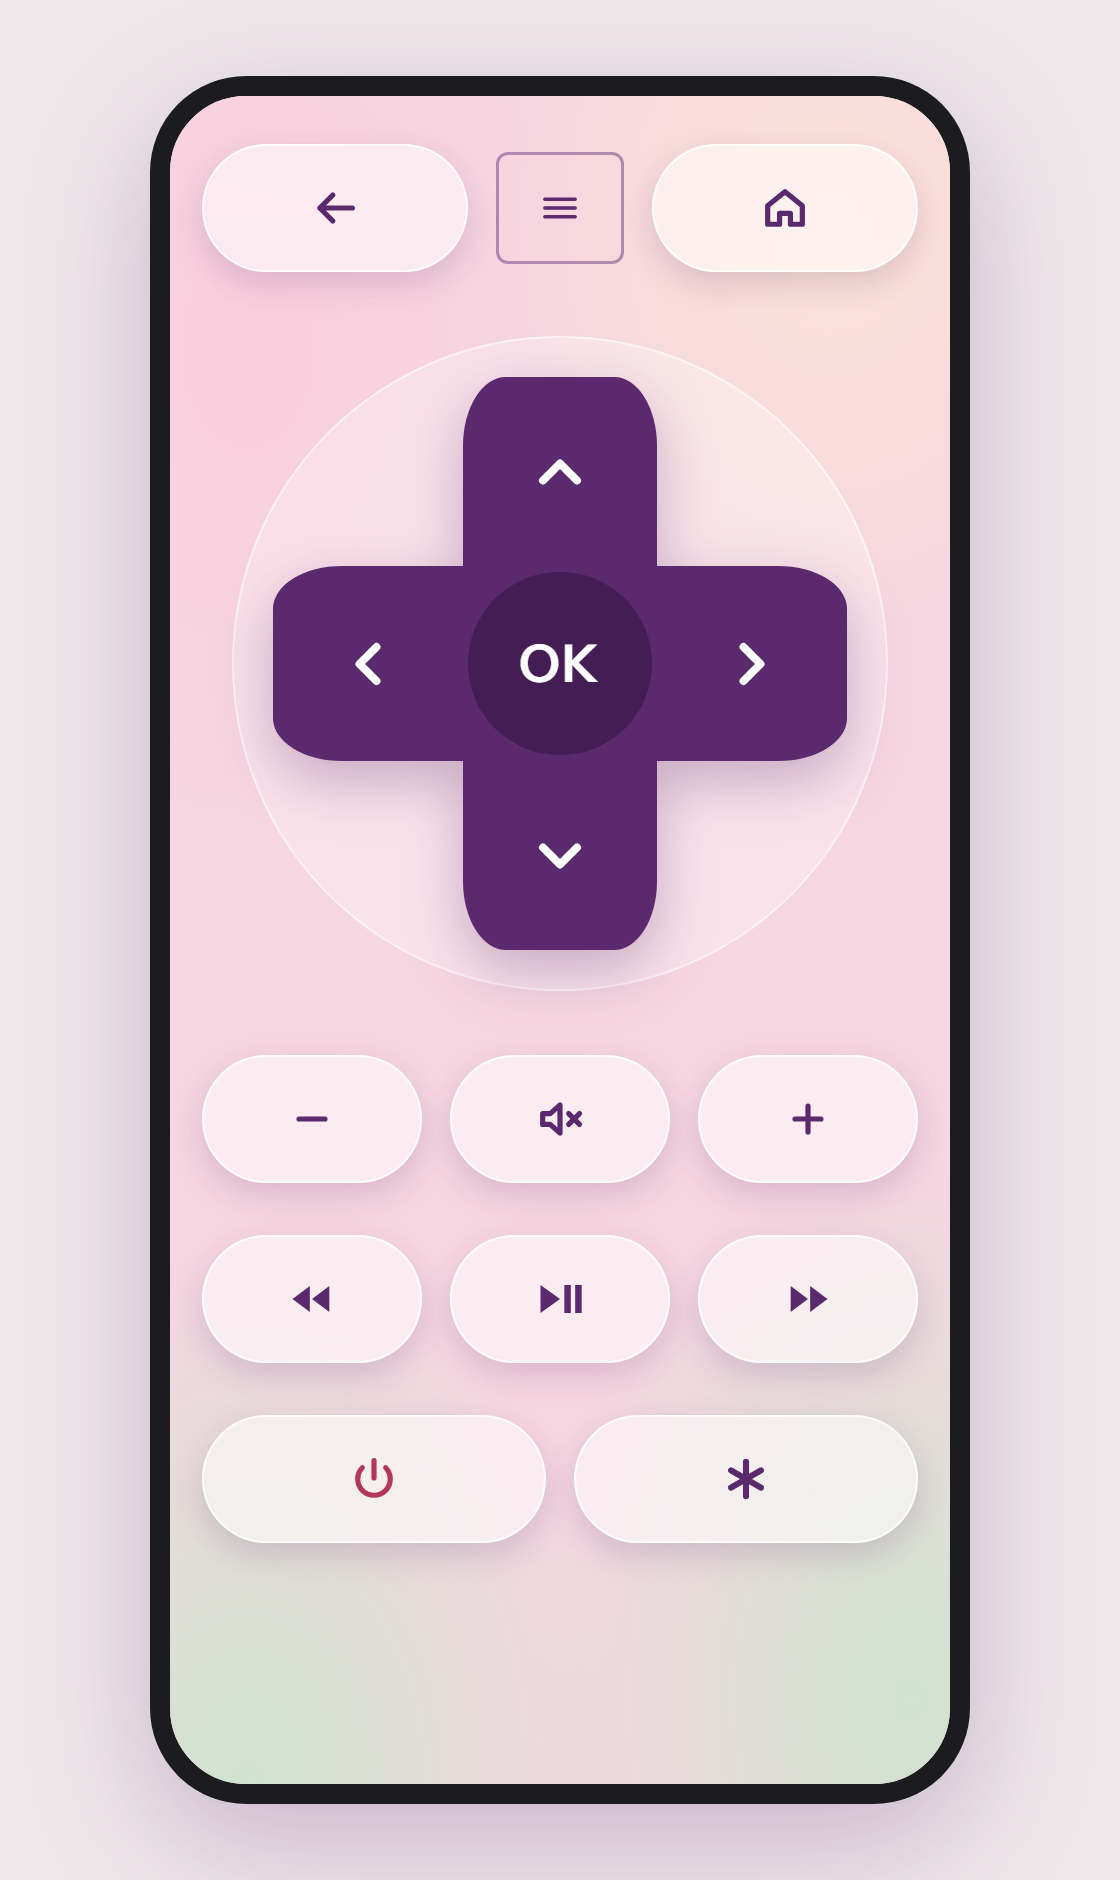
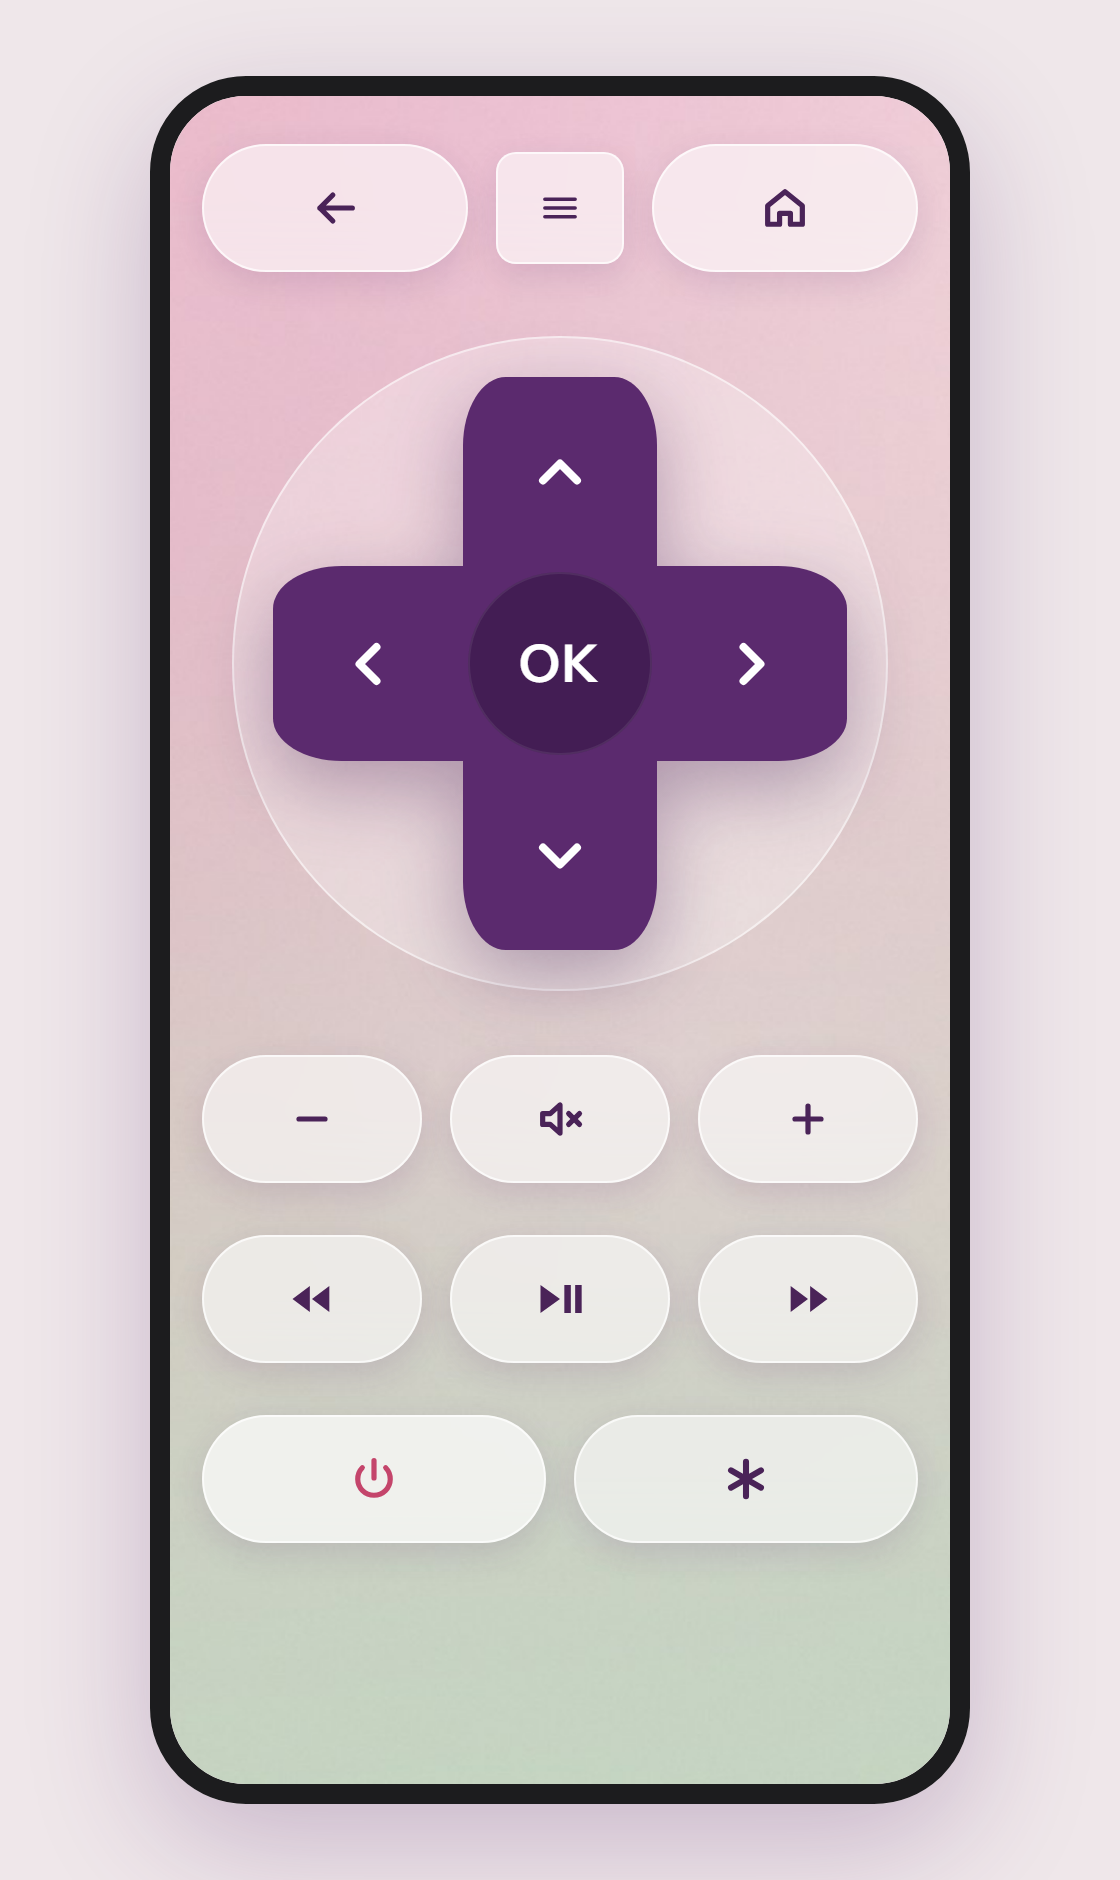
Remote: pastel wash photo, frosted pills, clearer press feedback, real play/pause toggle
- remote-bg.jpg: the same pink-to-sage wash as the TV, without the TV's plum scrims
- Frosted-white pills with plum ink icons; power is the one warm accent
- Press feedback scales to .94 (iOS has no vibration)
- PlayPause is resolved on the server: the Roku's Play key toggles; the TV alternates

diff --git a/src/tvui/static/remote.html b/src/tvui/static/remote.html
@@ -17,57 +17,55 @@
   @font-face { font-family: "Instrument Sans"; font-weight: 600; src: url(/instrument-sans-600.woff2) format("woff2"), url(/instrument-sans-600.woff) format("woff"); }
 
   /* Palette from the app icon: pastel blur wash, plum D-pad. */
-  :root { --blush: #F6D6E1; --sage: #CFE3CF; --peach: #FBE3D6; --plum: #5B2A6E; --plum-dark: #431D54;
-    --glass: rgba(255,255,255,.55); --glass-hit: rgba(255,255,255,.85); --shadow: rgba(91,42,110,.18); }
+  :root { --blush: #F6D6E1; --plum: #5B2A6E; --plum-dark: #431D54; --ink: #4A2358;
+    --glass: rgba(255,255,255,.58); --shadow: rgba(91,42,110,.14); }
   * { box-sizing: border-box; -webkit-tap-highlight-color: transparent; }
   html { min-height: 100%; background: var(--blush); }
-  body { margin: 0; min-height: 100vh; color: var(--plum);
-    background:
-      radial-gradient(ellipse 70% 45% at 10% 100%, var(--sage) 0%, transparent 70%),
-      radial-gradient(ellipse 70% 45% at 95% 95%, var(--sage) 0%, transparent 70%),
-      radial-gradient(ellipse 60% 35% at 85% 8%, var(--peach) 0%, transparent 70%),
-      radial-gradient(ellipse 60% 40% at 10% 15%, #F9CFDD 0%, transparent 70%),
-      var(--blush);
-    background-attachment: fixed;
+  body { margin: 0; min-height: 100vh; color: var(--ink);
+    background: #ecd3dc url(/remote-bg.jpg) center / cover no-repeat fixed;
     font-family: "Instrument Sans", -apple-system, "Helvetica Neue", Helvetica, Arial, sans-serif;
     -webkit-user-select: none; user-select: none; touch-action: manipulation; }
   .wrap { max-width: 420px; margin: 0 auto;
     padding: calc(env(safe-area-inset-top, 0px) + 24px) 16px calc(env(safe-area-inset-bottom, 0px) + 24px);
     display: flex; flex-direction: column; gap: 26px; }
   .row { display: flex; justify-content: space-between; align-items: center; gap: 14px; }
-  button { border: 0; padding: 0; color: var(--plum); font: inherit; cursor: pointer;
+  button { border: 0; padding: 0; color: var(--ink); font: inherit; cursor: pointer;
     display: grid; place-items: center; }
-  .pill { flex: 1; height: 64px; border-radius: 32px; background: var(--glass);
-    border: 1px solid rgba(255,255,255,.75);
-    -webkit-backdrop-filter: blur(12px); backdrop-filter: blur(12px);
-    box-shadow: 0 6px 16px var(--shadow);
-    transition: transform .08s, background .08s; }
-  .pill:active, .pill.hit { transform: scale(.96); background: var(--glass-hit); }
-  .sq { flex: 0 0 64px; height: 56px; background: transparent; border: 1.5px solid rgba(91,42,110,.45); border-radius: 6px; }
-  .sq:active, .sq.hit { background: rgba(255,255,255,.5); }
-  svg { width: 26px; height: 26px; fill: none; stroke: var(--plum); stroke-width: 2.4;
+  /* Frosted-white pills with plum icons; the D-pad is the only saturated object. */
+  .pill, .sq { background: var(--glass); border: 1px solid rgba(255,255,255,.7);
+    -webkit-backdrop-filter: blur(14px); backdrop-filter: blur(14px);
+    box-shadow: 0 5px 16px var(--shadow); transition: transform .12s, background .12s; }
+  .pill { flex: 1; height: 64px; border-radius: 32px; }
+  .sq { flex: 0 0 64px; height: 56px; border-radius: 10px; }
+  /* No vibration on iOS, so the press itself has to read clearly. */
+  .pill.hit, .sq.hit { transform: scale(.94); background: #fff; }
+  svg { width: 26px; height: 26px; fill: none; stroke: var(--ink); stroke-width: 2.4;
     stroke-linecap: round; stroke-linejoin: round; }
-  svg.fill { fill: var(--plum); stroke: none; }
+  svg.fill { fill: var(--ink); stroke: none; }
 
   /* D-pad: plum cross on a frosted disc, one soft shadow like the icon */
   .disc { position: relative; width: min(84vw, 340px); aspect-ratio: 1; margin: 6px auto;
     border-radius: 50%; background: rgba(255,255,255,.3); border: 1px solid rgba(255,255,255,.55); }
   .cross { position: absolute; inset: 6%; }
-  .shape { position: absolute; inset: 0; filter: drop-shadow(0 10px 14px rgba(91,42,110,.3)); }
+  .shape { position: absolute; inset: 0; filter: drop-shadow(0 13px 19px rgba(67,29,84,.35)); }
   .arm { position: absolute; background: var(--plum); }
   .arm.v { left: 33%; width: 34%; top: 0; bottom: 0; border-radius: 22% / 12%; }
   .arm.h { top: 33%; height: 34%; left: 0; right: 0; border-radius: 12% / 22%; }
   .dir { position: absolute; background: transparent; width: 34%; height: 33%; border-radius: 18px; }
-  .dir:active, .dir.hit { background: rgba(255,255,255,.14); }
+  .dir.hit { background: rgba(255,255,255,.14); }
+  .dir.hit svg { stroke: var(--blush); }
   .dir svg { width: 34px; height: 34px; stroke: #fff; stroke-width: 2.8; }
   .up { left: 33%; top: 0; } .down { left: 33%; bottom: 0; }
   .left { top: 33%; left: 0; width: 33%; height: 34%; } .right { top: 33%; right: 0; width: 33%; height: 34%; }
   .ok { position: absolute; left: 34%; top: 34%; width: 32%; height: 32%; border-radius: 50%;
-    background: var(--plum-dark); color: #fff; font-size: 26px; font-weight: 600; letter-spacing: 1px; }
-  .ok:active, .ok.hit { background: #6d3685; }
+    background: var(--plum-dark); color: #fff; font-size: 26px; font-weight: 600; letter-spacing: 1px;
+    box-shadow: inset 0 0 0 1px rgba(255,255,255,.08); transition: transform .12s, background .12s; }
+  .ok.hit { transform: scale(.94); background: #2f1240; }
 
-  .power svg { stroke: #B3365B; }
-  .msg { text-align: center; font-size: 13px; color: rgba(91,42,110,.7); min-height: 16px; margin-top: -10px; }
+  /* Power: the one warm accent, findable but not tempting */
+  .power { background: rgba(255,255,255,.7); }
+  .power svg { stroke: #C4456B; }
+  .msg { text-align: center; font-size: 13px; color: rgba(74,35,88,.75); min-height: 16px; margin-top: -10px; }
 </style>
 </head>
 <body>
@@ -110,12 +108,12 @@
 </div>
 
 <script>
-var msg = document.getElementById("msg"), playing = true;
+var msg = document.getElementById("msg");
 
 function send(path, btn) {
   if (navigator.vibrate) navigator.vibrate(8);
   btn.classList.add("hit");
-  setTimeout(function () { btn.classList.remove("hit"); }, 130);
+  setTimeout(function () { btn.classList.remove("hit"); }, 160);
   fetch(path).then(function (r) {
     return r.json().then(function (j) {
       var problem = r.ok ? j.warn : j.error;
@@ -129,7 +127,6 @@ document.querySelectorAll("button").forEach(function (b) {
     e.preventDefault();
     var k = b.getAttribute("data-k");
     if (b.hasAttribute("data-home")) return send("/api/home", b);
-    if (k === "PlayPause") { k = playing ? "Pause" : "Play"; playing = !playing; }
     send("/api/key?name=" + k, b);
   });
 });

diff --git a/src/tvui/server.py b/src/tvui/server.py
@@ -83,7 +83,16 @@ def make_handler(cfg, tv):
     def watching_roku():
         return roku_input() is not None and watching["uri"] == roku_input()
 
+    paused = {"tv": False}
+
     def press(name):
+        if name == "PlayPause":
+            # The Roku's Play key is a real toggle; the TV has none, so alternate.
+            if not watching_roku():
+                name = "Play" if paused["tv"] else "Pause"
+                paused["tv"] = not paused["tv"]
+            else:
+                name = "Play"
         if name in ROKU_KEYS and watching_roku():
             try:
                 on_roku(roku_key, ROKU_KEYS[name])
@@ -148,7 +157,7 @@ def make_handler(cfg, tv):
                 return self._send(200, json.dumps(tiles))
             if url.path not in ("/api/tile", "/api/key", "/api/home"):
                 return self._send(404, '{"error":"not found"}')
-            if url.path == "/api/key" and q.get("name") not in IRCC:
+            if url.path == "/api/key" and q.get("name") not in IRCC and q.get("name") != "PlayPause":
                 return self._send(400, '{"error":"unknown key"}')
             if url.path == "/api/key":
                 keys.put(q["name"])
